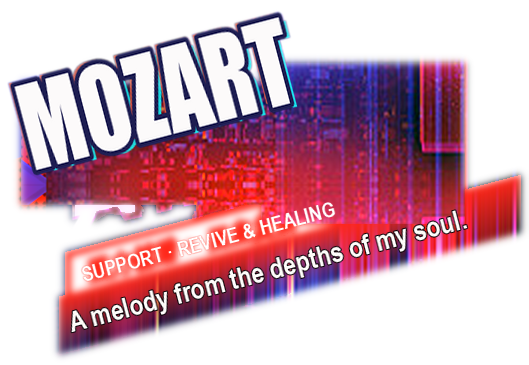
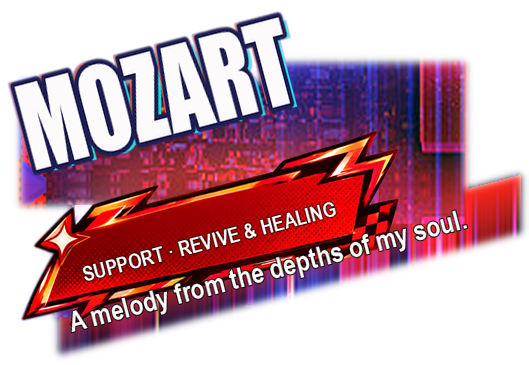
feat(多语言): 加载页标签条换成 tagbg 故障风贴图（按条色系逐张分配）
- 原纯色红/黑条不再保留：整条擦成背景（镜像回填），叠 tagbg/tag1..4 贴图
- 配色按原条色系：红/黑红底→tag3、紫→tag2(浅)、桃红→tag1、蓝青→tag4，layout 逐张 tagbg 字段
- 脚本运行时量贴图主成分质心与中线角：质心对准条带中心、角度补差（四张贴图 8.5°~13.6° 各不同）
- 标签字色按条芯自适应（tag2 浅芯→深字，其余白字深描边）；scale 1.30/dy -8 防下缘故障刺扎进台词带
- 锚点表/字节码随新 bbox 重生成；9/9 verify PASS（占底图 14~22%，体积 13~21%）
- tagbg 源图不入运行时引用（渲染期烘进贴片），真机生效仍需重打 LoginPanelAtlas

Changed region(s): [[0.0302, 0.3616, 0.7561, 0.874]]

diff --git a/scripts/image/loading_plate_overlay.py b/scripts/image/loading_plate_overlay.py
@@ -620,10 +620,79 @@ def multiscale_fill(img: np.ndarray, mask: np.ndarray, levels: int = 5) -> np.nd
 
 
 # --------------------------------------------------------------------------- #
+# tagbg：条带底图（tagbg/tag1..4.png）。原来的纯色红/黑条上直接排英文标签太素，
+# 换成用户提供的故障风贴图；九张按原条色系各配一张（layout 里逐张写 tagbg 字段）。
+# --------------------------------------------------------------------------- #
+TAGBG_STYLE = {
+    # 标签字色按条芯颜色定：tag2 是浅紫白芯 → 深字浅描边；其余深芯 → 白字深描边
+    "tag1": {"fill": (255, 255, 255), "stroke": (40, 8, 60)},
+    "tag2": {"fill": (56, 24, 88), "stroke": (250, 248, 255)},
+    "tag3": {"fill": (255, 255, 255), "stroke": (70, 8, 4)},
+    "tag4": {"fill": (255, 255, 255), "stroke": (6, 24, 70)},
+}
+
+
+def load_tagbg(name: str) -> Image.Image:
+    p = os.path.join(SRC_DIR, "tagbg", f"{name}.png")
+    if not os.path.exists(p):
+        raise SystemExit(f"tagbg 不存在：{p}")
+    return Image.open(p).convert("RGBA")
+
+
+def tagbg_geom(im: Image.Image) -> dict:
+    """量主成分（条带本体）的质心与中线角。
+
+    🔴 逐张现算、不写死：四张贴图构图不同（箭头尾/故障碎块的占比都不一样），
+       质心和中线角各不相同，写死任何一张的值都会让其余三张错位。
+    """
+    a = np.array(im.split()[3])
+    n, lab, st, cent = cv2.connectedComponentsWithStats((a > 200).astype(np.uint8), 8)
+    mx = 1 + int(np.argmax(st[1:, cv2.CC_STAT_AREA]))
+    ys, xs = np.nonzero(lab == mx)
+    cols = np.unique(xs)
+    mid = [(c, (ys[xs == c].min() + ys[xs == c].max()) / 2) for c in cols[::8]]
+    k, _ = np.polyfit(np.array([p[0] for p in mid]), np.array([p[1] for p in mid]), 1)
+    return {"cx": float(cent[mx][0]), "cy": float(cent[mx][1]),
+            "angle": float(np.degrees(np.arctan(-k)))}
+
+
+def place_tagbg(layout: dict, tilt: float, W: int, H: int):
+    """缩放/旋转/摆位 tagbg，返回 (图, 左上角落点, 覆盖四边形)。
+
+    - 宽度 = 条长 × tagbg_scale（默认 1.30）：左端箭头尾、右端故障碎块都在条长
+      之外，只按条长缩会让装饰挤进条芯、字没地方落。
+    - 角度 = 条带倾角 − 贴图自带倾角：四张贴图倾角 8.5°~13.6° 各不同，不补这个
+      差值，条芯和字会差出 2°~6.5°。
+    - 摆位 = 主成分质心对准条带中心线中点（tagbg_dx/dy 可逐张微调）。
+      dy 默认 -8：贴图下缘的故障刺会扎进台词带（刺尖比条芯低 40px+），整体上移
+      让刺尖只轻擦台词上沿；上缘离大字还有 30px+ 余量，不会顶到名字。
+    - 覆盖四边形交给 plate_box 并入贴片 bbox，否则贴图超出贴片被裁。
+    """
+    im = load_tagbg(layout["tagbg"])
+    bar_len = layout["x_right"] - layout["x_left"]
+    scale = bar_len * float(layout.get("tagbg_scale", 1.30)) / im.width
+    im = im.resize((max(1, int(im.width * scale)), max(1, int(im.height * scale))),
+                   Image.LANCZOS)
+    delta = tilt - tagbg_geom(im)["angle"]
+    if abs(delta) > 0.05:
+        im = im.rotate(delta, resample=Image.BICUBIC, expand=True)
+    g = tagbg_geom(im)          # rotate(expand) 会换画布，质心按变换后的图重算
+    bar_cx = (layout["x_left"] + layout["x_right"]) / 2
+    bar_cy = top_y(layout, bar_cx) + layout["bar_h"] / 2
+    px = int(round(bar_cx - g["cx"] + float(layout.get("tagbg_dx", 0))))
+    py = int(round(bar_cy - g["cy"] + float(layout.get("tagbg_dy", -8))))
+    quad = np.array([[px, py], [px + im.width, py],
+                     [px + im.width, py + im.height], [px, py + im.height]],
+                    np.float32)
+    return im, (px, py), quad
+
+
+# --------------------------------------------------------------------------- #
 # 排版（只排字，不碰底图）
 # --------------------------------------------------------------------------- #
 def build_lines(asset: str, lang: str, layout: dict, W: int, H: int,
-                q_fill=(255, 255, 255), q_stroke=(0, 0, 0)):
+                q_fill=(255, 255, 255), q_stroke=(0, 0, 0),
+                t_fill=(255, 255, 255), t_stroke=(112, 16, 8)):
     """按版面排三条线（大字 / 标签 / 台词），返回 [(图层, 锚点, 角度, 底图落点)]。
 
     只排字、不碰底图像素：同一份结果既用来画贴片，也用来反推贴片 bbox（见 `plate_box`）。
@@ -670,12 +739,14 @@ def build_lines(asset: str, lang: str, layout: dict, W: int, H: int,
             start = max(24, font.size - max(1, int(round(over))))
         items.append((lay, anchor, ang, tgt))
 
-    # 3a) 定位标签：贴着红条左端进一点，垂直居中于条带
+    # 3a) 定位标签：贴着条带左端进一点，垂直居中于条带
     if tag:
         tx = layout["x_left"] + 12
         font = fit_font(tag, int(layout["x_right"] - tx - 12),
                         int(layout["bar_h"] * 0.62), start=int(layout["bar_h"] * 0.52))
-        lay, bb, ink_c = line_layer(tag, font, stroke=0, stroke_fill=(112, 16, 8, 255))
+        # tagbg 上字要有 1px 描边才压得住故障纹理（tag2 浅芯是深字浅描边）
+        lay, bb, ink_c = line_layer(tag, font, fill=tuple(t_fill) + (255,), stroke=1,
+                                    stroke_fill=tuple(t_stroke) + (255,))
         # 左中点对齐：标签左端钉在条带左端的中心线上
         items.append((lay, (bb[0], ink_c[1]), tilt,
                       (tx, top_y(layout, tx) + layout["bar_h"] / 2)))
@@ -694,7 +765,8 @@ def build_lines(asset: str, lang: str, layout: dict, W: int, H: int,
     return items
 
 
-def plate_box(asset: str, layout: dict, W: int, H: int, changed: np.ndarray | None = None):
+def plate_box(asset: str, layout: dict, W: int, H: int, changed: np.ndarray | None = None,
+              extra: list | None = None):
     """贴片 bbox（底图像素）＝ 红条 ∪ 台词带 ∪ 擦除区 ∪ **所有语言**的墨迹，再外扩 PLATE_PAD。
 
     🔴 必须对 `LANGS` 全部取并集，不能只按当前语言算：`LoadingPlateGeom.lua` 一张图
@@ -723,6 +795,8 @@ def plate_box(asset: str, layout: dict, W: int, H: int, changed: np.ndarray | No
     for lang in LANGS:
         for lay, anchor, ang, tgt in build_lines(asset, lang, layout, W, H):
             pts.append(layer_ink_quad(lay, anchor, ang, tgt))
+    if extra:
+        pts.extend(extra)          # tagbg 覆盖四边形等额外区域
     allp = np.vstack(pts)
     return (max(0, int(np.floor(allp[:, 0].min())) - PLATE_PAD),
             max(0, int(np.floor(allp[:, 1].min())) - PLATE_PAD),
@@ -765,27 +839,42 @@ def render(asset: str, lang: str, layout: dict) -> dict:
     #    「偏离红条中位色 > 45」，把字、描边、投影一起圈进来；红条自身的渐变只差 15 左右。
     bar_region = np.zeros((H, W), np.uint8)
     cv2.fillPoly(bar_region, [pb.astype(np.int32)], 255)
-    bar_region = cv2.erode(bar_region, np.ones((3, 3), np.uint8))   # 内缩，别吃红条边缘
+    bar_region_er = cv2.erode(bar_region, np.ones((3, 3), np.uint8))   # 内缩，别吃条边缘
 
-    keep0 = (bar_region > 0)
+    keep0 = (bar_region_er > 0)
     bar_color = (np.median(img[keep0].reshape(-1, 3), axis=0).astype(np.uint8)
                  if keep0.any() else np.array([25, 55, 240], np.uint8))
 
-    dev = np.abs(img.astype(np.int16) - bar_color.astype(np.int16)).max(axis=2)
-    m_bar = (((dev > 70) & (bar_region > 0))).astype(np.uint8) * 255
-    m_bar = cv2.morphologyEx(m_bar, cv2.MORPH_CLOSE, np.ones((5, 5), np.uint8))
-    m_bar = cv2.dilate(m_bar, np.ones((3, 3), np.uint8))
-    m_bar = (m_bar & bar_region).astype(np.uint8)
+    # layout 里配了 tagbg 且本语言有标签译文 → 整条条带换成故障风贴图；
+    # 否则走原路：条内偏离条色的像素（中文标签 + 描边 + 投影）用条色填掉。
+    use_tagbg = bool(layout.get("tagbg") and tag)
+    if use_tagbg:
+        # 🔴 条要整条擦：dilate 19 把条边缘的过渡带一起吃掉，否则贴图边缘会露出
+        #    一圈旧条色的边。擦除排在台词带/名字都重建完之后（镜像取材方向此时
+        #    上下都已是干净背景，见下方 mirror_fill 调用处）。
+        m_bar = cv2.dilate(bar_region, np.ones((19, 19), np.uint8))
+    else:
+        dev = np.abs(img.astype(np.int16) - bar_color.astype(np.int16)).max(axis=2)
+        m_bar = (((dev > 70) & (bar_region_er > 0))).astype(np.uint8) * 255
+        m_bar = cv2.morphologyEx(m_bar, cv2.MORPH_CLOSE, np.ones((5, 5), np.uint8))
+        m_bar = cv2.dilate(m_bar, np.ones((3, 3), np.uint8))
+        m_bar = (m_bar & bar_region_er).astype(np.uint8)
 
-    # --- 2) 台词行：整带重建（红条色 → 背景色）------------------------------ #
+    # --- 2) 台词行：整带重建（条色 → 背景色）------------------------------ #
     clean = img.copy()
-    clean[m_bar > 0] = bar_color
+    if not use_tagbg:
+        clean[m_bar > 0] = bar_color
     clean, m_quote = fill_quote_band(clean, layout, bar_color)
 
     # --- 2b) 大号角色名 + 小英文名：多尺度回填 ------------------------------ #
     m_name = np.zeros((H, W), np.uint8)
     if name:
         clean, m_name = erase_name(clean, layout)
+
+    if use_tagbg:
+        # 台词带/名字都重建完再擦条：mirror_fill 的取材方向（上=名字区、下=台词带）
+        # 此时都已是重建过的干净背景，不会把中文原稿镜像进来
+        clean = mirror_fill(clean, m_bar)
 
     changed = (((m_bar > 0) | (m_quote > 0) | (m_name > 0))
                .astype(np.uint8) * 255)
@@ -809,10 +898,18 @@ def render(asset: str, lang: str, layout: dict) -> dict:
         q_fill, q_stroke = (252, 250, 246), (24, 14, 20)      # 暗底：白字深描边
 
     # --- 3) 排版：先在**底图坐标**里算三条线的落点，拿到各自的墨迹范围 ----- #
-    ink_items = build_lines(asset, lang, layout, W, H, q_fill, q_stroke)
+    tilt = float(np.degrees(np.arctan(-layout["slope"])))
+    t_fill, t_stroke = (255, 255, 255), (112, 16, 8)
+    tag_place = None
+    if use_tagbg:
+        st = TAGBG_STYLE[layout["tagbg"]]
+        t_fill, t_stroke = st["fill"], st["stroke"]
+        tag_place = place_tagbg(layout, tilt, W, H)
+    ink_items = build_lines(asset, lang, layout, W, H, q_fill, q_stroke, t_fill, t_stroke)
 
     # --- 4) 贴片画布 = 几何区 ∪ 擦除区 ∪ 三条线的墨迹（全语言并集）-------- #
-    x0, y0, x1, y1 = plate_box(asset, layout, W, H, changed)
+    x0, y0, x1, y1 = plate_box(asset, layout, W, H, changed,
+                               extra=[tag_place[2]] if tag_place else None)
     pw, ph = x1 - x0, y1 - y0
 
     # 墨迹被**画板**边界（不是贴片边界）削掉多少：>0 说明这行字本身超出了 684×2048
@@ -825,6 +922,14 @@ def render(asset: str, lang: str, layout: dict) -> dict:
                        int(max(0, -q[:, 1].min())), int(max(0, q[:, 1].max() - (H - 1))))
 
     plate = Image.fromarray(cv2.cvtColor(clean[y0:y1, x0:x1], cv2.COLOR_BGR2RGB)).convert("RGBA")
+    # tagbg 先压到重建过的底上，译文字再压到 tagbg 上（顺序反了字会被贴图盖住）
+    tag_lay = None
+    if tag_place:
+        tag_im, (tpx, tpy), _ = tag_place
+        lay_full = Image.new("RGBA", (W, H), (0, 0, 0, 0))
+        lay_full.alpha_composite(tag_im, (tpx, tpy))
+        tag_lay = lay_full.crop((x0, y0, x1, y1))
+        plate = Image.alpha_composite(plate, tag_lay)
     ink = Image.new("RGBA", plate.size, (0, 0, 0, 0))     # 译文单独一层，最后取 alpha
     # 落点从底图坐标换算成贴片坐标再画（同一个仿射：绕锚点旋转 + 平移到落点）
     for lay, anchor, ang, tgt in ink_items:
@@ -833,9 +938,11 @@ def render(asset: str, lang: str, layout: dict) -> dict:
     plate = Image.alpha_composite(plate, ink)
     text_a = np.array(ink.split()[3])
 
-    # --- 4) alpha：只在「擦过的像素」和「新画的字」上不透明 ----------------- #
+    # --- 4) alpha：只在「擦过的像素」「tagbg」和「新画的字」上不透明 --------- #
     a = changed[y0:y1, x0:x1].copy()
     a = cv2.GaussianBlur(a, (FEATHER * 2 + 1, FEATHER * 2 + 1), 0)
+    if tag_lay is not None:
+        a = np.maximum(a, np.array(tag_lay.split()[3]))
     a = np.maximum(a, np.array(text_a))
     a = cv2.GaussianBlur(a, (3, 3), 0)
     plate.putalpha(Image.fromarray(a))
